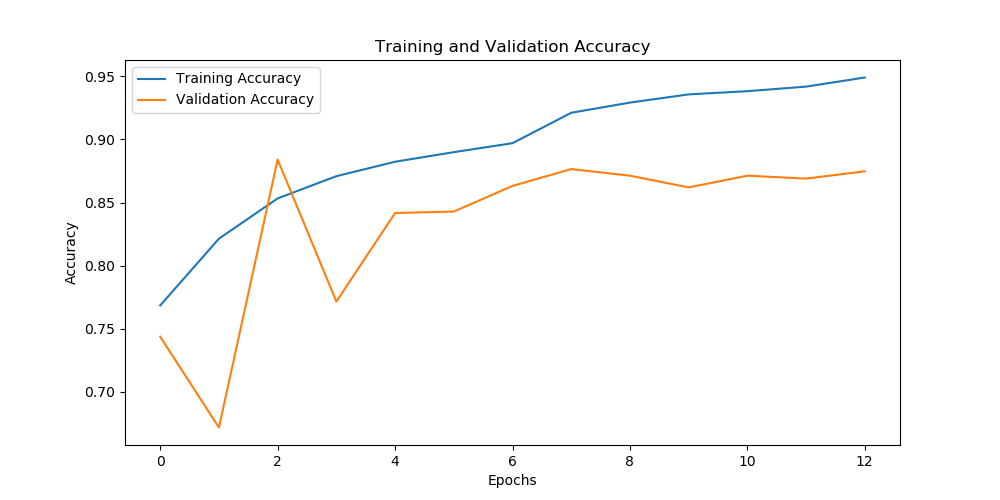
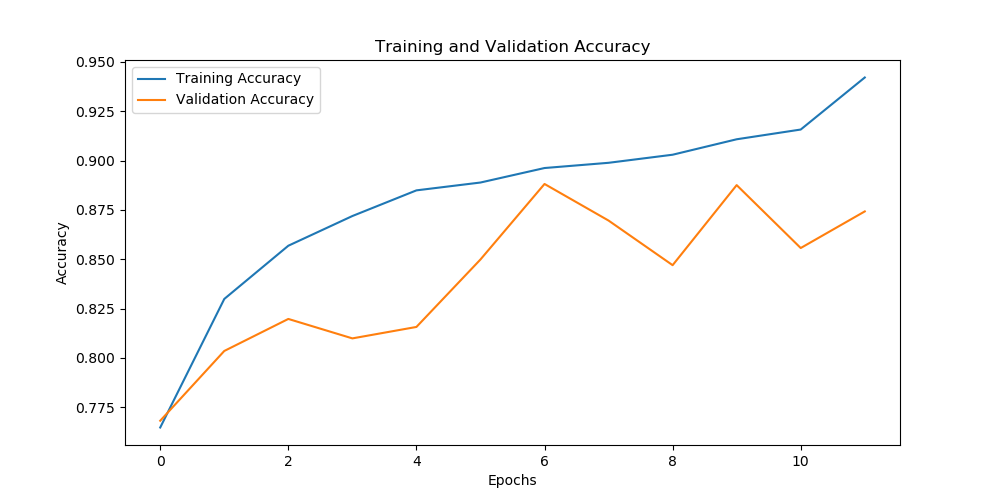
add save logreg model

diff --git a/clip_fully_supervised.py b/clip_fully_supervised.py
@@ -3,23 +3,19 @@ import os
 import clip
 import torch
 import numpy as np
-from sklearn.linear_model import LogisticRegression
 from torch.utils.data import DataLoader, Dataset
 from tqdm import tqdm
-from sklearn.model_selection import train_test_split
 import json
 import cv2
 from torchvision.transforms import ToTensor
 import pandas as pd
 from PIL import Image
 import torch.nn as nn
-import torch.optim as optim
 import torchvision.transforms as transforms
 from sklearn.metrics import confusion_matrix
 from sklearn.metrics import accuracy_score, precision_score, recall_score, f1_score, classification_report
 import matplotlib.pyplot as plt
 from datetime import datetime
-from torch.nn.parallel import DataParallel
 import random
 from sklearn.decomposition import PCA
 from torch.optim.lr_scheduler import CosineAnnealingWarmRestarts,  ReduceLROnPlateau
@@ -27,17 +23,15 @@ from torch.optim.lr_scheduler import CosineAnnealingWarmRestarts,  ReduceLROnPla
 # Define device
 if torch.cuda.is_available():
     device = torch.device("cuda") # use CUDA device
-#elif torch.backends.mps.is_available():
-#    device = torch.device("mps") # use MacOS GPU device (e.g., for M2 chips)
+elif torch.backends.mps.is_available():
+    device = torch.device("mps") # use MacOS GPU device (e.g., for M2 chips)
 else:
     device = torch.device("cpu") # use CPU device
 print('Used device: ', device)
 
 #Load CLIP model - ViT B32
 model, preprocess = clip.load('ViT-B/16', device, jit=False)
-'''if torch.cuda.device_count() > 1:
-    print("Let's use", torch.cuda.device_count(), "GPUs!")
-    model = DataParallel(model)'''
+
 
 # Load the dataset
 class ImageTitleDataset(Dataset):
@@ -51,7 +45,6 @@ class ImageTitleDataset(Dataset):
         #Initialize class names (no smoke or smoke)
         self.class_names = class_names
         #Transform to tensor
-        #self.transforms = ToTensor()
         self.transform_image = transform_image
 
     @staticmethod
@@ -77,16 +70,18 @@ class ImageTitleDataset(Dataset):
         if len(frames) != 36:
             print("Num of frames are not 36")
             print("Num of frames for video on ", video_path, "is ", len(frames))
+            concatenated_frames = np.concatenate(frames, axis=1)
         
-        # Create  and store rows in the grids
-        rows_list = []
-        for i in range(num_rows):
-            #create rows from the frames using indexes -- for example, if i=0, then between the 0th and 6th frame
-            row = np.concatenate(frames[i * num_cols: (i + 1) * num_cols], axis=1)
-            rows_list.append(row)
-        
-        # Concatenate grid vertically to create a single square-shaped image from the smoke video
-        concatenated_frames = np.concatenate(rows_list, axis=0)
+        else:
+            # Create  and store rows in the grids
+            rows_list = []
+            for i in range(num_rows):
+                #create rows from the frames using indexes -- for example, if i=0, then between the 0th and 6th frame
+                row = np.concatenate(frames[i * num_cols: (i + 1) * num_cols], axis=1)
+                rows_list.append(row)
+            
+            # Concatenate grid vertically to create a single square-shaped image from the smoke video
+            concatenated_frames = np.concatenate(rows_list, axis=0)
         return concatenated_frames
 
     def __len__(self):
@@ -106,35 +101,35 @@ class ImageTitleDataset(Dataset):
         return image, label, true_label
     
 #Define training, validation and test data
-# Load the JSON metadata
-with open('data/split/metadata_train_split_by_date.json', 'r') as f:
-    train_data = json.load(f)
-with open('data/split/metadata_validation_split_by_date.json', 'r') as f:
-    val_data = json.load(f)
-with open('data/split/metadata_test_split_by_date.json', 'r') as f:
-    test_data = json.load(f)
+
+def load_data(split_path):
+    with open(split_path, 'r') as f:
+        data = json.load(f)
+    return pd.DataFrame(data)
+
+train_data = load_data('data/split/metadata_train_split_by_date.json')
+val_data = load_data('data/split/metadata_validation_split_by_date.json')
+test_data = load_data('data/split/metadata_test_split_by_date.json')
 
 
-# Convert the datasets to a Pandas DataFrame
-train_data = pd.DataFrame(train_data)
-val_data = pd.DataFrame(val_data)
-test_data = pd.DataFrame(test_data)
+#Prepare the list of video file paths and labels
 
+def prepare_paths_labels(data, base_path):
+    list_video_path = [os.path.join(base_path, f"{fn}.mp4") for fn in data['file_name']]
+    list_labels = [int(label) for label in data['label']]
+    return list_video_path, list_labels
 
-# Prepare the list of video file paths and labels
-train_list_video_path = [os.path.join("/../projects/0/prjs0930/data/merged_videos/", f"{fn}.mp4") for fn in train_data['file_name']]
-train_list_labels = [int(label) for label in train_data['label']]
-val_list_video_path = [os.path.join("/../projects/0/prjs0930/data/merged_videos/", f"{fn}.mp4") for fn in val_data['file_name']]
-val_list_labels = [int(label) for label in val_data['label']]
-test_list_video_path = [os.path.join("/../projects/0/prjs0930/data/merged_videos/", f"{fn}.mp4") for fn in test_data['file_name']]
-test_list_labels = [int(label) for label in test_data['label']]
+base_path = "/../projects/0/prjs0930/data/merged_videos/"
+train_list_video_path, train_list_labels = prepare_paths_labels(train_data, base_path)
+val_list_video_path, val_list_labels = prepare_paths_labels(val_data, base_path)
+test_list_video_path, test_list_labels = prepare_paths_labels(test_data, base_path)
 
 #Define class names in a list - it needs prompt engineering
 #class_names = ["a photo of a factory with no smoke", "a photo of a smoking factory"] #1
 #class_names = ["a series picture of a factory with a shut down chimney", "a series picture of a smoking factory chimney"] #- 2
 #class_names = ["a photo of factories with clear sky above chimney", "a photo of factories emiting smoke from chimney"] #- 3
-#class_names = ["a photo of a factory with no smoke", "a photo of a smoking factory"] #- 4
-class_names = ["a series picture of a factory with clear sky above chimney", "a series picture of a smoking factory"] #- 5
+class_names = ["a photo of a factory with no smoke", "a photo of a smoking factory"] #- 4
+#class_names = ["a series picture of a factory with clear sky above chimney", "a series picture of a smoking factory"] #- 5
 #class_names = ["a series picture of a factory with no smoke", "a series picture of a smoking factory"] #- 6
 #class_names = ["a sequental photo of an industrial plant with clear sky above chimney, created from a video", "a sequental photo of an industrial plant emiting smoke from chimney, created from a video"]# - 7
 #class_names = ["a photo of a shut down chimney", "a photo of smoke chimney"] #-8
@@ -186,7 +181,7 @@ optimizer = torch.optim.Adam(model.parameters(), lr=1e-5,betas=(0.9,0.98),eps=1e
 #optimizer = torch.optim.Adam(model.parameters(), lr=1e-5,betas=(0.9,0.98),eps=1e-6,weight_decay=0.2)
 #scheduler = optim.lr_scheduler.CosineAnnealingLR(optimizer, len(train_dataloader)*num_epochs)
 #scheduler = CosineAnnealingWarmRestarts(optimizer, T_0=10, T_mult=2)
-scheduler = ReduceLROnPlateau(optimizer, mode='min', factor=0.5, patience=1, verbose=True)
+scheduler = ReduceLROnPlateau(optimizer, mode='min', factor=0.5, patience=2, verbose=True)
 
 
 # Specify the loss functions - for images and for texts
@@ -324,7 +319,7 @@ for epoch in range(num_epochs):
                 te_loss += total_loss.item()
 
                 # Convert similarity scores to predicted labels
-                predicted_label = index.squeeze.cpu().numpy()
+                predicted_label = index.squeeze().cpu().numpy()
                 ground_truth_label = ground_truth.cpu().numpy()
 
                 correct = (predicted_label == ground_truth_label).sum().item()
@@ -596,7 +591,7 @@ def visualize_features(features, labels, title):
     plt.scatter(reduced_features[:, 0], reduced_features[:, 1], c=labels, cmap='viridis', alpha=0.5)
     plt.colorbar()
     plt.title(title)
-    plt.savefig('clip_fullysupervised_features_reduceplato_1.png')
+    plt.savefig('clip_fullysupervised_features_reduceplato_4p.png')
     plt.close()
 
 visualize_features(test_features, test_labels, 'Test Features')

diff --git a/clip_linear.py b/clip_linear.py
@@ -198,50 +198,39 @@ classifier = LogisticRegression(random_state=0, C=0.316, max_iter=1000, verbose=
 
 # Optionally, use early stopping based on the validation set performance
 # For example, if validation accuracy does not improve for several epochs, stop training
-best_val_accuracy =  0.001
-best_epoch = 0
-num_epochs = 1
-for epoch in range(num_epochs):
-    print(f"Epoch {epoch + 1}/{num_epochs}")
 
-    # Training
-    print('Training')
-    classifier.fit(train_features, train_labels)
 
-    train_predictions = classifier.predict(train_features)
-    train_accuracy = accuracy_score(train_labels, train_predictions)
-    train_precision = precision_score(train_labels, train_predictions)
-    train_recall = recall_score(train_labels, train_predictions)
-    train_f1 = f1_score(train_labels, train_predictions)
+# Training
+print('Training')
+classifier.fit(train_features, train_labels)
 
-    print(f"Train Accuracy = {train_accuracy:.3f}")
-    print(f"Train Precision = {train_precision:.3f}")
-    print(f"Train Recall = {train_recall:.3f}")
-    print(f"Train F1 Score = {train_f1:.3f}")
+train_predictions = classifier.predict(train_features)
+train_accuracy = accuracy_score(train_labels, train_predictions)
+train_precision = precision_score(train_labels, train_predictions)
+train_recall = recall_score(train_labels, train_predictions)
+train_f1 = f1_score(train_labels, train_predictions)
 
-    # Validation
-    print('Validation')
-    val_predictions = classifier.predict(val_features)
+print(f"Train Accuracy = {train_accuracy:.3f}")
+print(f"Train Precision = {train_precision:.3f}")
+print(f"Train Recall = {train_recall:.3f}")
+print(f"Train F1 Score = {train_f1:.3f}")
 
-    val_accuracy = accuracy_score(val_labels, val_predictions)
-    val_precision = precision_score(val_labels, val_predictions)
-    val_recall = recall_score(val_labels, val_predictions)
-    val_f1 = f1_score(val_labels, val_predictions)
+# Validation
+print('Validation')
+val_predictions = classifier.predict(val_features)
 
-    print(f"Validation Accuracy = {val_accuracy:.3f}")
-    print(f"Validation Precision = {val_precision:.3f}")
-    print(f"Validation Recall = {val_recall:.3f}")
-    print(f"Validation F1 Score = {val_f1:.3f}")
+val_accuracy = accuracy_score(val_labels, val_predictions)
+val_precision = precision_score(val_labels, val_predictions)
+val_recall = recall_score(val_labels, val_predictions)
+val_f1 = f1_score(val_labels, val_predictions)
+
+print(f"Validation Accuracy = {val_accuracy:.3f}")
+print(f"Validation Precision = {val_precision:.3f}")
+print(f"Validation Recall = {val_recall:.3f}")
+print(f"Validation F1 Score = {val_f1:.3f}")
+
     
-    
-    if val_accuracy > best_val_accuracy:
-        best_val_accuracy = val_accuracy
-        best_epoch = epoch
-    else:
-        break
 
-# Print the best validation accuracy and the corresponding epoch
-print(f"Best Validation Accuracy = {best_val_accuracy:.3f} at Epoch {best_epoch}")
 
 start_time = datetime.now()
 # Evaluate the trained classifier on the test set
@@ -267,4 +256,3 @@ print("Confusion Matrix:")
 print(conf_matrix)
 
 print("CLIP model parameters:", f"{np.sum([int(np.prod(p.shape)) for p in model.parameters()]):,}")
-#print("Classifier Model parameters:", f"{np.sum([int(np.prod(p.shape)) for p in classifier.parameters()]):,}")

diff --git a/ensemble_with_stacking.py b/ensemble_with_stacking.py
@@ -25,6 +25,7 @@ from datetime import datetime
 from torch.nn.parallel import DataParallel
 from torch.optim.lr_scheduler import ReduceLROnPlateau
 from sklearn.linear_model import LogisticRegression
+import joblib
 
 # Define device
 if torch.cuda.is_available():
@@ -100,9 +101,11 @@ rnn_model.eval()
 
 
 clip_model, preprocess = clip.load('ViT-B/16', device, jit=False)
-state_dict = torch.load('../clip_fully_supervised/fs_best_model_5e_5p.pt', map_location=device)
+state_dict = torch.load('../clip_fully_supervised/fs_last_model_reduceplato_5p_11e.pt', map_location=device)
 clip_model.load_state_dict(state_dict)
 clip_model.eval()
+
+logreg_model = joblib.load('../clip_lin/final_logreg_model_grid_11e_5p_last_reduceplato.sav')
 
 class ImageTitleDataset(Dataset):
     def __init__(self, list_video_path, list_labels, rnn_transform_image, clip_transform_image):
@@ -309,7 +312,47 @@ class CLIP_MobileNetV3_RNN_Ensemble(nn.Module):
 
         return combined_data
 
-ensemble_model = CLIP_MobileNetV3_RNN_Ensemble(clip_model, rnn_model)
+class CLIP_GLIN_MobileNetV3_RNN_Ensemble(nn.Module):
+    def __init__(self, clip_model, mobilenet_rnn_model, logreg_model):
+        super(CLIP_GLIN_MobileNetV3_RNN_Ensemble, self).__init__()
+        #set the models
+        self.clip_model = clip_model
+        self.mobilenet_rnn_model = mobilenet_rnn_model
+        self.logreg_model = logreg_model
+
+        for param in self.clip_model.parameters():
+            param.requires_grad = False
+        for param in self.mobilenet_rnn_model.parameters():
+            param.requires_grad = False
+
+
+    def forward(self, frames, image, classname):
+        #send all data to device
+        images = image.to(device)
+        frames = frames.to(device)
+        #get clip logits
+        features = self.clip_model.encode_image(images.to(device)).cpu().numpy()
+        clip_glin_pred = self.logreg_model.predict_proba(features)
+        clip_glin_pred = torch.tensor(clip_glin_pred).to(device)
+        #to get the logits instead of the probabilites (this is the formula to capture logits)
+        clip_glin_pred = torch.log(clip_glin_pred / (1 - clip_glin_pred))
+
+        #get mobilenet-rnn logits
+        rnn_logits = self.mobilenet_rnn_model(frames)
+
+        # Ensure data types for concatenation
+        clip_glin_pred = clip_glin_pred.float()
+        rnn_logits = rnn_logits.float()
+
+        #combine logits
+        combined_data = torch.cat((clip_glin_pred, rnn_logits), dim=1)
+
+        return combined_data
+
+#simple clip model without lin layer:
+#ensemble_model = CLIP_MobileNetV3_RNN_Ensemble(clip_model, rnn_model)
+#clip model with lin layer:
+ensemble_model = CLIP_GLIN_MobileNetV3_RNN_Ensemble(clip_model, rnn_model,logreg_model)
 
 def get_features(model, dataloader):
     model.eval()

diff --git a/clip_linear_gridsearch.py b/clip_linear_gridsearch.py
@@ -21,6 +21,7 @@ import matplotlib.pyplot as plt
 from sklearn.decomposition import PCA
 from sklearn.model_selection import GridSearchCV
 from datetime import datetime
+import joblib
 
 # Define device
 if torch.cuda.is_available():
@@ -35,7 +36,7 @@ print('Used device: ', device)
 model, preprocess = clip.load('ViT-B/16', device, jit=False)
 
 #state_dict = torch.load('../clip_fully_supervised/fs_best_model_11e_4p.pt', map_location=device)
-state_dict = torch.load('../fs_best_model.pt', map_location=device)
+state_dict = torch.load('../fs_last_model_reduceplato.pt', map_location=device)
 model.load_state_dict(state_dict)
 
 # Load the dataset
@@ -190,9 +191,6 @@ def get_features(dataloader, name):
     
     features = torch.cat(all_features).cpu().numpy()
     labels = torch.cat(all_labels).cpu().numpy()
-    
-    print(f"{name} Features Shape: {features.shape}")
-    print(f"{name} Labels Distribution: {np.bincount(labels)}")
     return features, labels
 
 train_features, train_labels = get_features(train_dataloader, 'Train')
@@ -209,10 +207,10 @@ def visualize_features(features, labels, title):
     plt.scatter(reduced_features[:, 0], reduced_features[:, 1], c=labels, cmap='viridis', alpha=0.5)
     plt.colorbar()
     plt.title(title)
-    plt.savefig('1e_5p_best_features_examples.png')
+    plt.savefig('best_features_examples-reduceplato.png')
     plt.close()
 
-visualize_features(test_features, test_labels, 'Test Features')
+#visualize_features(test_features, test_labels, 'Test Features')
 
 param_grid = {
     'penalty': ['none','l1','l2'],
@@ -273,4 +271,7 @@ target_names = ['class 0', 'class 1']
 print(classification_report(test_labels, test_predictions, target_names=target_names))
 
 print("CLIP model parameters:", f"{np.sum([int(np.prod(p.shape)) for p in model.parameters()]):,}")
-print("Classifier Model parameters:", f"{np.sum([int(np.prod(p.shape)) for p in best_classifier.parameters()]):,}")
+
+#save model
+filename = 'final_logreg_model_last_reduceplato.sav'
+joblib.dump(best_classifier, filename)

diff --git a/cnn_rnn.py b/cnn_rnn.py
@@ -227,7 +227,7 @@ scheduler = ReduceLROnPlateau(optimizer, mode='min', factor=0.1, patience=3, ver
 best_te_loss = 1e5
 best_ep = -1
 early_stopping_counter = 0
-early_stopping_patience = 5
+early_stopping_patience = 10
 train_accuracies = []
 val_accuracies = []
 train_losses = []
@@ -312,12 +312,12 @@ for epoch in range(num_epochs):
             vbar.set_description(f"Validation: {i}/{len(val_dataloader)}, Validation loss: {val_loss.item():.4f}")
             i+=1
 
-        te_loss /= step
-        val_accuracy = epoch_val_correct / epoch_val_total
-        print("Validation accuracy: ", val_accuracy)
-        val_losses.append(te_loss)
-        val_accuracies.append(val_accuracy)
-        train_losses.append(te_loss)
+    te_loss /= step
+    val_accuracy = epoch_val_correct / epoch_val_total
+    print("Validation accuracy: ", val_accuracy)
+    val_losses.append(te_loss)
+    val_accuracies.append(val_accuracy)
+    train_losses.append(te_loss)
     
     scheduler.step(te_loss)
 
